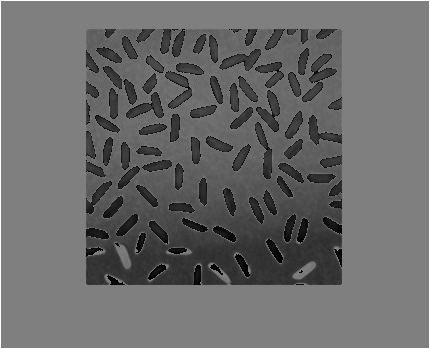
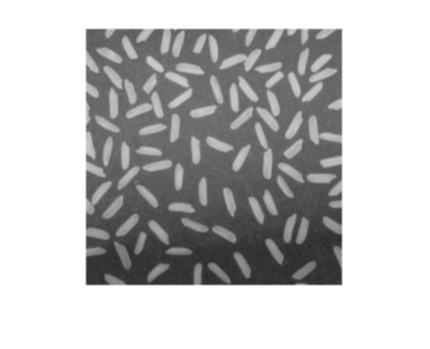
Added CUDA Bluring and modified NAIVE to bluring

diff --git a/CUDA/image_convolution.py b/CUDA/image_convolution.py
@@ -1,0 +1,115 @@
+
+from __future__ import division
+
+import numpy as np
+from numpy import linalg as la
+from pycuda import driver, compiler, gpuarray, tools
+
+import pycuda.autoinit
+import imageio
+
+# ---------------------- FUNCTIONS -------------------------
+
+
+def preproc_old_image(old_image):
+    w, h = old_image.shape
+    WHITE = 255
+    SQUARE_SIZE = 450
+    proc_image = np.full((SQUARE_SIZE, SQUARE_SIZE), WHITE, np.int32)
+    for i in range(0, w):
+        for j in range(0, h):
+            proc_image[i][j] = old_image[i][j]
+    return proc_image
+
+
+def recompute_image(old_image, new_image_gpu):
+    new_image = old_image
+    w, h = new_image.shape
+    for i in range(0, w):
+        for j in range(0, h):
+            new_image[i][j] = new_image_gpu[i][j]
+    return new_image
+
+# ----------------------- KERNEL CODE TEMPLATE ----------------
+kernel_code_template = '''
+	#include<stdio.h>
+
+	__global__ void Convolution(int *old_image,int *new_image){{
+
+		const uint MATRIX_SIZE = {MATRIX_SIZE} ;
+		const uint BLOCK_SIZE = {BLOCK_SIZE} ;
+
+		int row_block = blockIdx.y * MATRIX_SIZE * BLOCK_SIZE;
+		int col_block = blockIdx.x * BLOCK_SIZE;
+		int current_row = row_block + threadIdx.y * MATRIX_SIZE;
+		int current_col = col_block + threadIdx.x;
+		
+		if(current_row != 0 && current_col != 0 && current_row != MATRIX_SIZE - 1 && current_col != MATRIX_SIZE - 1) {{
+
+			int row_above = current_row - MATRIX_SIZE;
+			int row_below = current_row + MATRIX_SIZE;
+			int col_left = current_col - 1;
+			int col_right = current_col + 1;
+
+			int idx_current = current_row + current_col;
+			int idx_above = row_above + current_col;
+			int idx_below = row_below + current_col;
+			int idx_left = current_row + col_left;
+			int idx_right = current_row + col_right;
+
+			int sum = 0;
+			sum += old_image[idx_above];
+			sum += old_image[idx_below];
+			sum += old_image[idx_left];
+			sum += old_image[idx_right];
+
+			new_image[idx_current] = sum / 4;
+		}}
+
+	}}
+
+'''
+
+# ---------------------- MODULE CONSTANTS --------------------
+FILENAME = '../dummy.png'
+FILENAME_OUT = 'dummyout.png'
+MODN = 256
+
+# ---------------------- READ AND PREPROC IMAGE ---------------
+old_image = imageio.imread(FILENAME)
+w, h = old_image.shape
+old_image_preproc = preproc_old_image(old_image)
+w, h = old_image_preproc.shape
+
+# ----------------------- INIT CUDA PARAMS --------------------
+BLOCK_SIZE = 10
+MATRIX_SIZE = w
+
+assert w == h
+assert w % BLOCK_SIZE == 0
+
+old_image_gpu = gpuarray.to_gpu(old_image_preproc)
+new_image_gpu = gpuarray.empty((MATRIX_SIZE, MATRIX_SIZE), np.int32)
+
+placeholder_dict = {
+    'MATRIX_SIZE': MATRIX_SIZE,
+    'BLOCK_SIZE': BLOCK_SIZE
+}
+
+kernel_code = kernel_code_template.format(**placeholder_dict)
+mod = compiler.SourceModule(kernel_code)
+
+convolution = mod.get_function("Convolution")
+
+convolution(
+    # input
+    old_image_gpu,
+    # ouput
+    new_image_gpu,
+    grid=((MATRIX_SIZE // BLOCK_SIZE), (MATRIX_SIZE // BLOCK_SIZE)),
+    block=(BLOCK_SIZE, BLOCK_SIZE, 1),
+)
+
+new_image = recompute_image(old_image,new_image_gpu.get())
+
+imageio.imwrite(FILENAME_OUT, new_image[:, :])

diff --git a/NAIVE/threads.py b/NAIVE/threads.py
@@ -18,6 +18,8 @@ def copyRow(oi, ni, IDX):
         ni[i][IDX] = oi[i][IDX]
 
 # USING MEDIAN FILTERING
+
+
 def compute_median_n(oi, i, j):
     dist = [0] * 8
     cnt = 0
@@ -32,10 +34,23 @@ def compute_median_n(oi, i, j):
     return (dist[3] + dist[4]) // 2
 
 
+def compute_linear_convolution(oi, i, j):
+    sum_over = 0
+    sum_over += oi[i][j + 1]
+    sum_over += oi[i][j - 1]
+    sum_over += oi[i + 1][j]
+    sum_over += oi[i - 1][j]
+    return sum_over // 4
+
+
+def compute_convolution(oi, i, j):
+    return compute_linear_convolution(oi, i, j)
+
+
 def doWork(oi, ni, beg_row, end_row, row_length):
     for i in range(beg_row, end_row):
         for j in range(1, row_length - 1):
-            ni[i][j] = compute_median_n(oi, i, j)
+            ni[i][j] = compute_convolution(oi, i, j)
 
 # READ IMAGE AND METADATA
 old_image = imageio.imread(FILENAME)
